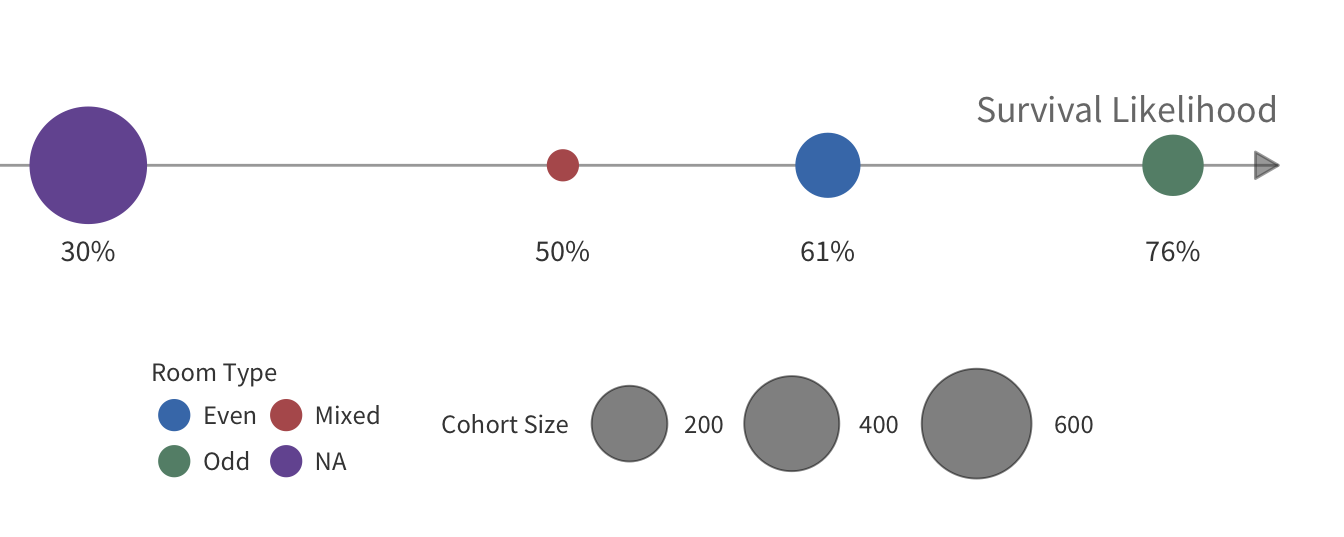
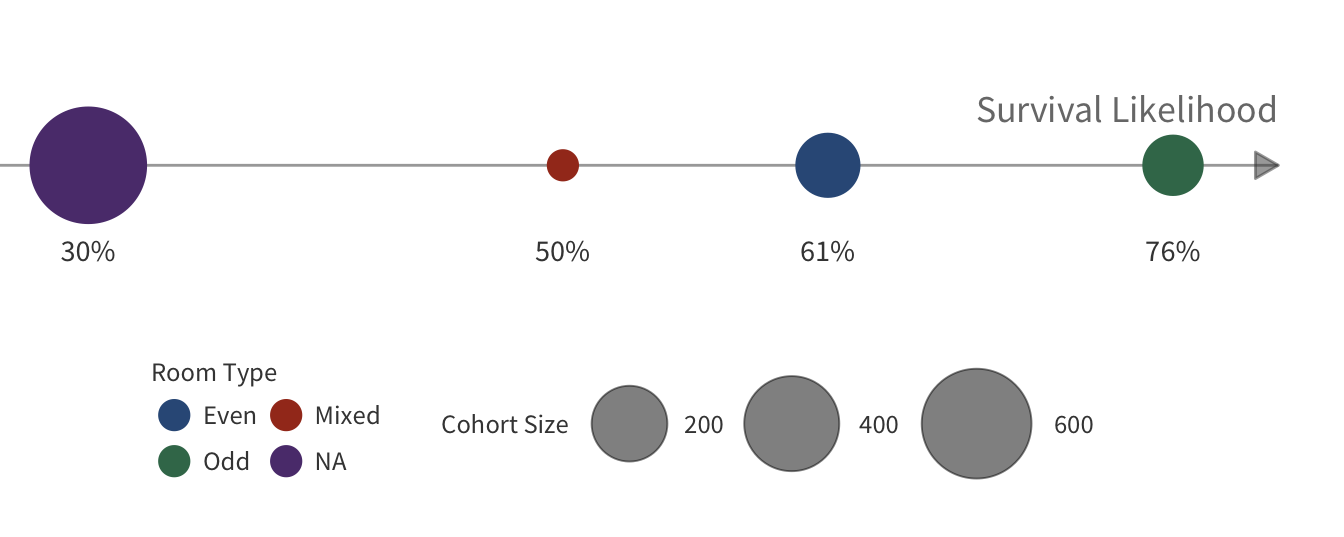
Revert colors

diff --git a/index.html b/index.html
@@ -850,8 +850,8 @@ pwalk(
 )
 
 map</code></pre>
-<div id="htmlwidget-f5ffef7f3b91611cc30b" style="width:100%;height:268.8px;" class="leaflet html-widget"></div>
-<script type="application/json" data-for="htmlwidget-f5ffef7f3b91611cc30b">{"x":{"options":{"crs":{"crsClass":"L.CRS.EPSG3857","code":null,"proj4def":null,"projectedBounds":null,"options":{}}},"calls":[{"method":"addProviderTiles","args":["CartoDB.Positron",null,null,{"errorTileUrl":"","noWrap":false,"zIndex":null,"unloadInvisibleTiles":null,"updateWhenIdle":null,"detectRetina":false,"reuseTiles":false}]},{"method":"addAwesomeMarkers","args":[41.7666636,-50.2333324,{"icon":"ship","markerColor":"gray","iconColor":"#FFFFFF","spin":false,"squareMarker":false,"iconRotate":0,"font":"monospace","prefix":"fa"},null,null,{"clickable":true,"draggable":false,"keyboard":true,"title":"","alt":"","zIndexOffset":0,"opacity":1,"riseOnHover":false,"riseOffset":250},"Titanic Crash Site",null,null,null,null,null,null]},{"method":"addCircleMarkers","args":[49.645009,-1.62444,10,null,null,{"lineCap":null,"lineJoin":null,"clickable":true,"pointerEvents":null,"className":"","stroke":true,"color":"#94A162","weight":5,"opacity":0.8,"fill":true,"fillColor":"#94A162","fillOpacity":0.5,"dashArray":null},null,null,"Cherbough<br>Survival Likelihood: 55%",null,null,null,null]},{"method":"addCircleMarkers","args":[51.851,-8.2967,10,null,null,{"lineCap":null,"lineJoin":null,"clickable":true,"pointerEvents":null,"className":"","stroke":true,"color":"#B55C5C","weight":5,"opacity":0.8,"fill":true,"fillColor":"#B55C5C","fillOpacity":0.5,"dashArray":null},null,null,"Queenstown<br>Survival Likelihood: 39%",null,null,null,null]},{"method":"addCircleMarkers","args":[50.9038684,-1.4176118,15,null,null,{"lineCap":null,"lineJoin":null,"clickable":true,"pointerEvents":null,"className":"","stroke":true,"color":"#B55C5C","weight":5,"opacity":0.8,"fill":true,"fillColor":"#B55C5C","fillOpacity":0.5,"dashArray":null},null,null,"Southampton<br>Survival Likelihood: 34%",null,null,null,null]}],"limits":{"lat":[41.7666636,51.851],"lng":[-50.2333324,-1.4176118]}},"evals":[],"jsHooks":[]}</script>
+<div id="htmlwidget-2b10f883db8f965d6788" style="width:100%;height:268.8px;" class="leaflet html-widget"></div>
+<script type="application/json" data-for="htmlwidget-2b10f883db8f965d6788">{"x":{"options":{"crs":{"crsClass":"L.CRS.EPSG3857","code":null,"proj4def":null,"projectedBounds":null,"options":{}}},"calls":[{"method":"addProviderTiles","args":["CartoDB.Positron",null,null,{"errorTileUrl":"","noWrap":false,"zIndex":null,"unloadInvisibleTiles":null,"updateWhenIdle":null,"detectRetina":false,"reuseTiles":false}]},{"method":"addAwesomeMarkers","args":[41.7666636,-50.2333324,{"icon":"ship","markerColor":"gray","iconColor":"#FFFFFF","spin":false,"squareMarker":false,"iconRotate":0,"font":"monospace","prefix":"fa"},null,null,{"clickable":true,"draggable":false,"keyboard":true,"title":"","alt":"","zIndexOffset":0,"opacity":1,"riseOnHover":false,"riseOffset":250},"Titanic Crash Site",null,null,null,null,null,null]},{"method":"addCircleMarkers","args":[49.645009,-1.62444,10,null,null,{"lineCap":null,"lineJoin":null,"clickable":true,"pointerEvents":null,"className":"","stroke":true,"color":"#89942F","weight":5,"opacity":0.8,"fill":true,"fillColor":"#89942F","fillOpacity":0.5,"dashArray":null},null,null,"Cherbough<br>Survival Likelihood: 55%",null,null,null,null]},{"method":"addCircleMarkers","args":[51.851,-8.2967,10,null,null,{"lineCap":null,"lineJoin":null,"clickable":true,"pointerEvents":null,"className":"","stroke":true,"color":"#A43820","weight":5,"opacity":0.8,"fill":true,"fillColor":"#A43820","fillOpacity":0.5,"dashArray":null},null,null,"Queenstown<br>Survival Likelihood: 39%",null,null,null,null]},{"method":"addCircleMarkers","args":[50.9038684,-1.4176118,15,null,null,{"lineCap":null,"lineJoin":null,"clickable":true,"pointerEvents":null,"className":"","stroke":true,"color":"#A43820","weight":5,"opacity":0.8,"fill":true,"fillColor":"#A43820","fillOpacity":0.5,"dashArray":null},null,null,"Southampton<br>Survival Likelihood: 34%",null,null,null,null]}],"limits":{"lat":[41.7666636,51.851],"lng":[-50.2333324,-1.4176118]}},"evals":[],"jsHooks":[]}</script>
 <p><br> The map above indicates that those who embarked at Cherbough are more likely to survive. This is a puzzling observation as where the passenger embarks should not have an impact of what is happening on the Titanic.</p>
 <pre class="r"><code># Assessing the correlation between Embarkation and Passenger Class
 

diff --git a/README.md b/README.md
@@ -836,11 +836,11 @@ map
 
 <!--html_preserve-->
 
-<div id="htmlwidget-a7e386083688bd1fbabe" class="leaflet html-widget" style="width:100%;height:268.8px;">
+<div id="htmlwidget-3868ad82f2421c7c974c" class="leaflet html-widget" style="width:100%;height:268.8px;">
 
 </div>
 
-<script type="application/json" data-for="htmlwidget-a7e386083688bd1fbabe">{"x":{"options":{"crs":{"crsClass":"L.CRS.EPSG3857","code":null,"proj4def":null,"projectedBounds":null,"options":{}}},"calls":[{"method":"addProviderTiles","args":["CartoDB.Positron",null,null,{"errorTileUrl":"","noWrap":false,"zIndex":null,"unloadInvisibleTiles":null,"updateWhenIdle":null,"detectRetina":false,"reuseTiles":false}]},{"method":"addAwesomeMarkers","args":[41.7666636,-50.2333324,{"icon":"ship","markerColor":"gray","iconColor":"#FFFFFF","spin":false,"squareMarker":false,"iconRotate":0,"font":"monospace","prefix":"fa"},null,null,{"clickable":true,"draggable":false,"keyboard":true,"title":"","alt":"","zIndexOffset":0,"opacity":1,"riseOnHover":false,"riseOffset":250},"Titanic Crash Site",null,null,null,null,null,null]},{"method":"addCircleMarkers","args":[49.645009,-1.62444,10,null,null,{"lineCap":null,"lineJoin":null,"clickable":true,"pointerEvents":null,"className":"","stroke":true,"color":"#94A162","weight":5,"opacity":0.8,"fill":true,"fillColor":"#94A162","fillOpacity":0.5,"dashArray":null},null,null,"Cherbough<br>Survival Likelihood: 55%",null,null,null,null]},{"method":"addCircleMarkers","args":[51.851,-8.2967,10,null,null,{"lineCap":null,"lineJoin":null,"clickable":true,"pointerEvents":null,"className":"","stroke":true,"color":"#B55C5C","weight":5,"opacity":0.8,"fill":true,"fillColor":"#B55C5C","fillOpacity":0.5,"dashArray":null},null,null,"Queenstown<br>Survival Likelihood: 39%",null,null,null,null]},{"method":"addCircleMarkers","args":[50.9038684,-1.4176118,15,null,null,{"lineCap":null,"lineJoin":null,"clickable":true,"pointerEvents":null,"className":"","stroke":true,"color":"#B55C5C","weight":5,"opacity":0.8,"fill":true,"fillColor":"#B55C5C","fillOpacity":0.5,"dashArray":null},null,null,"Southampton<br>Survival Likelihood: 34%",null,null,null,null]}],"limits":{"lat":[41.7666636,51.851],"lng":[-50.2333324,-1.4176118]}},"evals":[],"jsHooks":[]}</script>
+<script type="application/json" data-for="htmlwidget-3868ad82f2421c7c974c">{"x":{"options":{"crs":{"crsClass":"L.CRS.EPSG3857","code":null,"proj4def":null,"projectedBounds":null,"options":{}}},"calls":[{"method":"addProviderTiles","args":["CartoDB.Positron",null,null,{"errorTileUrl":"","noWrap":false,"zIndex":null,"unloadInvisibleTiles":null,"updateWhenIdle":null,"detectRetina":false,"reuseTiles":false}]},{"method":"addAwesomeMarkers","args":[41.7666636,-50.2333324,{"icon":"ship","markerColor":"gray","iconColor":"#FFFFFF","spin":false,"squareMarker":false,"iconRotate":0,"font":"monospace","prefix":"fa"},null,null,{"clickable":true,"draggable":false,"keyboard":true,"title":"","alt":"","zIndexOffset":0,"opacity":1,"riseOnHover":false,"riseOffset":250},"Titanic Crash Site",null,null,null,null,null,null]},{"method":"addCircleMarkers","args":[49.645009,-1.62444,10,null,null,{"lineCap":null,"lineJoin":null,"clickable":true,"pointerEvents":null,"className":"","stroke":true,"color":"#89942F","weight":5,"opacity":0.8,"fill":true,"fillColor":"#89942F","fillOpacity":0.5,"dashArray":null},null,null,"Cherbough<br>Survival Likelihood: 55%",null,null,null,null]},{"method":"addCircleMarkers","args":[51.851,-8.2967,10,null,null,{"lineCap":null,"lineJoin":null,"clickable":true,"pointerEvents":null,"className":"","stroke":true,"color":"#A43820","weight":5,"opacity":0.8,"fill":true,"fillColor":"#A43820","fillOpacity":0.5,"dashArray":null},null,null,"Queenstown<br>Survival Likelihood: 39%",null,null,null,null]},{"method":"addCircleMarkers","args":[50.9038684,-1.4176118,15,null,null,{"lineCap":null,"lineJoin":null,"clickable":true,"pointerEvents":null,"className":"","stroke":true,"color":"#A43820","weight":5,"opacity":0.8,"fill":true,"fillColor":"#A43820","fillOpacity":0.5,"dashArray":null},null,null,"Southampton<br>Survival Likelihood: 34%",null,null,null,null]}],"limits":{"lat":[41.7666636,51.851],"lng":[-50.2333324,-1.4176118]}},"evals":[],"jsHooks":[]}</script>
 
 <!--/html_preserve-->
 
